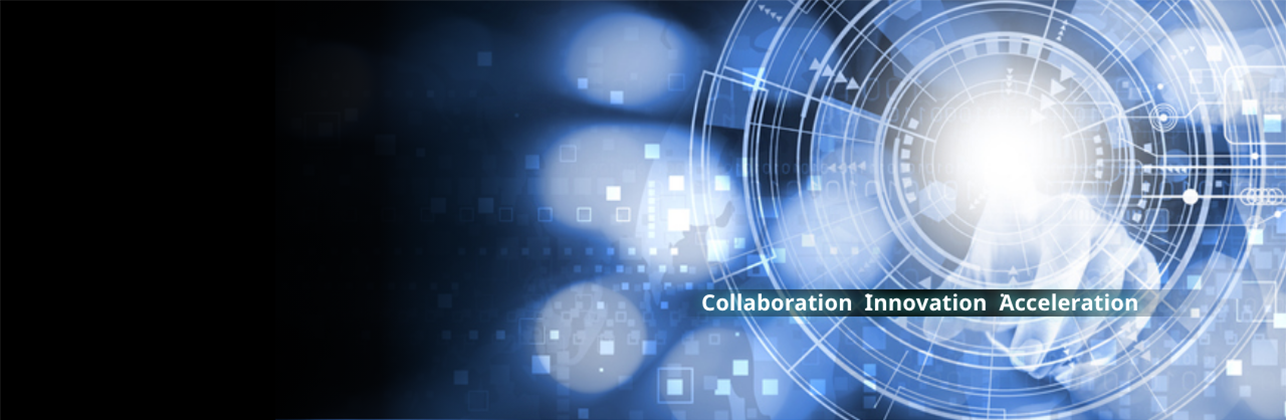
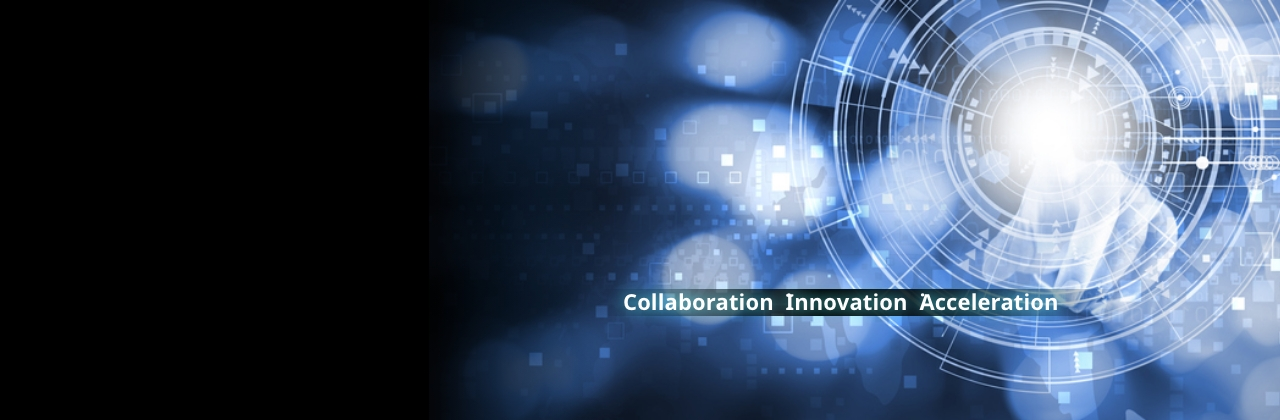
Graphics:兩個頁面內容及圖表修改

diff --git a/Embedded-GPU.html b/Embedded-GPU.html
@@ -465,7 +465,7 @@
   </header>
 
   <main>
-    <section class="banner sec-pd js-fillbg" style="background-image: url( images/banner-graphics.jpg)">
+    <section class="banner sec-pd js-fillbg" style="background-image: url( images/banner_embedded_gpu.jpg)">
       <div class="container">
         <div class="row">
           <div class="col-md-7">
@@ -518,16 +518,111 @@
       <section id="pro-1" class="pro-1 sec-pd sec-scroll">
         <div class="container">
           <div class="editor">
-            <h3>Overview</h3>
-            <p>Silicon Motion provides cutting-edge embedded graphics solutions tailored for a wide array of applications, including industrial PCs, servers, high-resolution handheld devices, factory human-machine interfaces, point-of-sale terminals, medical equipment, and casino gaming machines. Our embedded GPU products are thoughtfully packaged within multi-chip modules (MCMs) featuring embedded video memory, offering an optimal balance between cost efficiency, power consumption reduction, and device longevity. The integration of fundamental graphics capabilities empowers our products with exceptional reliability and adaptability to cater to the diverse needs of various industries.</p>
-            <p>The Silicon Motion Graphic Display SoCs have been meticulously crafted to cater to diverse application requirements.</p>
-            <div class="row pd_top_30" data-aos="fade-up">
+            <div class="row mb-6">
               <div class="col-md-12">
-                <h4>SM768 Industrial Applications</h4>
-                <img src="images/EmbeddedGPU-applications.png" alt="" />
+                <h3>Overview</h3>
+                <p>Silicon Motion provides cutting-edge embedded graphics solutions tailored for a wide array of applications, including industrial PCs, servers, high-resolution handheld devices, factory human-machine interfaces, point-of-sale terminals, medical equipment, and casino gaming machines. Our embedded GPU products are thoughtfully packaged within multi-chip modules (MCMs) featuring embedded video memory, offering an optimal balance between cost efficiency, power consumption reduction, and device longevity. The integration of fundamental graphics capabilities empowers our products with exceptional reliability and adaptability to cater to the diverse needs of various industries.</p>
+                <p>The Silicon Motion Graphic Display SoCs have been meticulously crafted to cater to diverse application requirements.</p>
               </div>
             </div>
-          </div><!-- /.editor-->
+          </div>
+          <div class="row">
+            <div class="col-md-12">
+              <div class="editor">
+                <h3>Applications</h3>
+                <h4>Server Console</h4>
+              </div>
+              <div class="container" data-aos="fade-up">
+                <div class="row">
+                  <ul class="applications-menu">
+                    <li>
+                      <a href="javascript:;" target="_blank">
+                        <img src="images/applications/icon_graphics-in-bmc.svg" alt="">
+                        <span>Graphics IP in BMC Chips</span>
+                      </a>
+                    </li>
+                    <li>
+                      <a href="javascript:;" target="_blank">
+                        <img src="images/applications/appicon-server.svg" alt="">
+                        <span>On-board GPU for Server CPU</span>
+                      </a>
+                    </li>
+                  </ul>
+                </div>
+              </div>
+            </div>
+            <div class="col-md-12" data-aos="fade-up">
+              <div class="editor">
+                <h4>Panel Application</h4>
+              </div>
+              <div class="container">
+                <div class="row">
+                  <ul class="applications-menu">
+                    <li>
+                      <a href="javascript:;" target="_blank">
+                        <img src="images/applications/icon_Medical-Panel.svg" alt="">
+                        <span>Medical System</span>
+                      </a>
+                    </li>
+                    <li>
+                      <a href="javascript:;">
+                        <img src="images/applications/icon_radar-system.svg" alt="">
+                        <span>Radar System</span>
+                      </a>
+                    </li>
+                    <li>
+                      <a href="javascript:;">
+                        <img src="images/applications/appicon-industrial-pc.svg" alt="">
+                        <span>Panel PC / ARM Desktop PC</span>
+                      </a>
+                    </li>
+                    <li>
+                      <a href="javascript:;">
+                        <img src="images/applications/icon_rugged-tablet.svg" alt="">
+                        <span>Rugged Tablet</span>
+                      </a>
+                    </li>
+                  </ul>
+                </div>
+              </div>
+            </div>
+            <div class="col-md-12" data-aos="fade-up">
+              <div class="editor">
+                <h4>Single/Multiple Graphics Cards</h4>
+              </div>
+              <div class="container">
+                <div class="row">
+                  <ul class="applications-menu">
+                    <li>
+                      <a href="javascript:;" target="_blank">
+                        <img src="images/applications/icon_DVR.svg" alt="">
+                        <span>DVR</span>
+                      </a>
+                    </li>
+                    <li>
+                      <a href="javascript:;" target="_blank">
+                        <img src="images/applications/appicon-infotainment-navigation.svg" alt="">
+                        <span>Display System in Vehicle</span>
+                      </a>
+                    </li>
+                    <li>
+                      <a href="javascript:;">
+                        <img src="images/applications/icon_Digital-Signage.svg" alt="">
+                        <span>Digital Signage</span>
+                      </a>
+                    </li>
+                    <li>
+                      <a href="javascript:;">
+                        <img src="images/applications/icon_kiosk.svg" alt="">
+                        <span>Kiosk</span>
+                      </a>
+                    </li>
+                  </ul>
+                </div>
+              </div>
+            </div>
+          </div>
+
         </div><!-- /.container-->
       </section>
 

diff --git a/Graphics-Display-SoCs.html b/Graphics-Display-SoCs.html
@@ -474,7 +474,7 @@
   </header>
 
   <main>
-    <section class="banner sec-pd js-fillbg" style="background-image: url( images/banner-graphics.jpg)">
+    <section class="banner sec-pd js-fillbg" style="background-image: url( images/banner_usb_display.jpg)">
       <div class="container">
         <div class="row">
           <div class="col-md-7">
